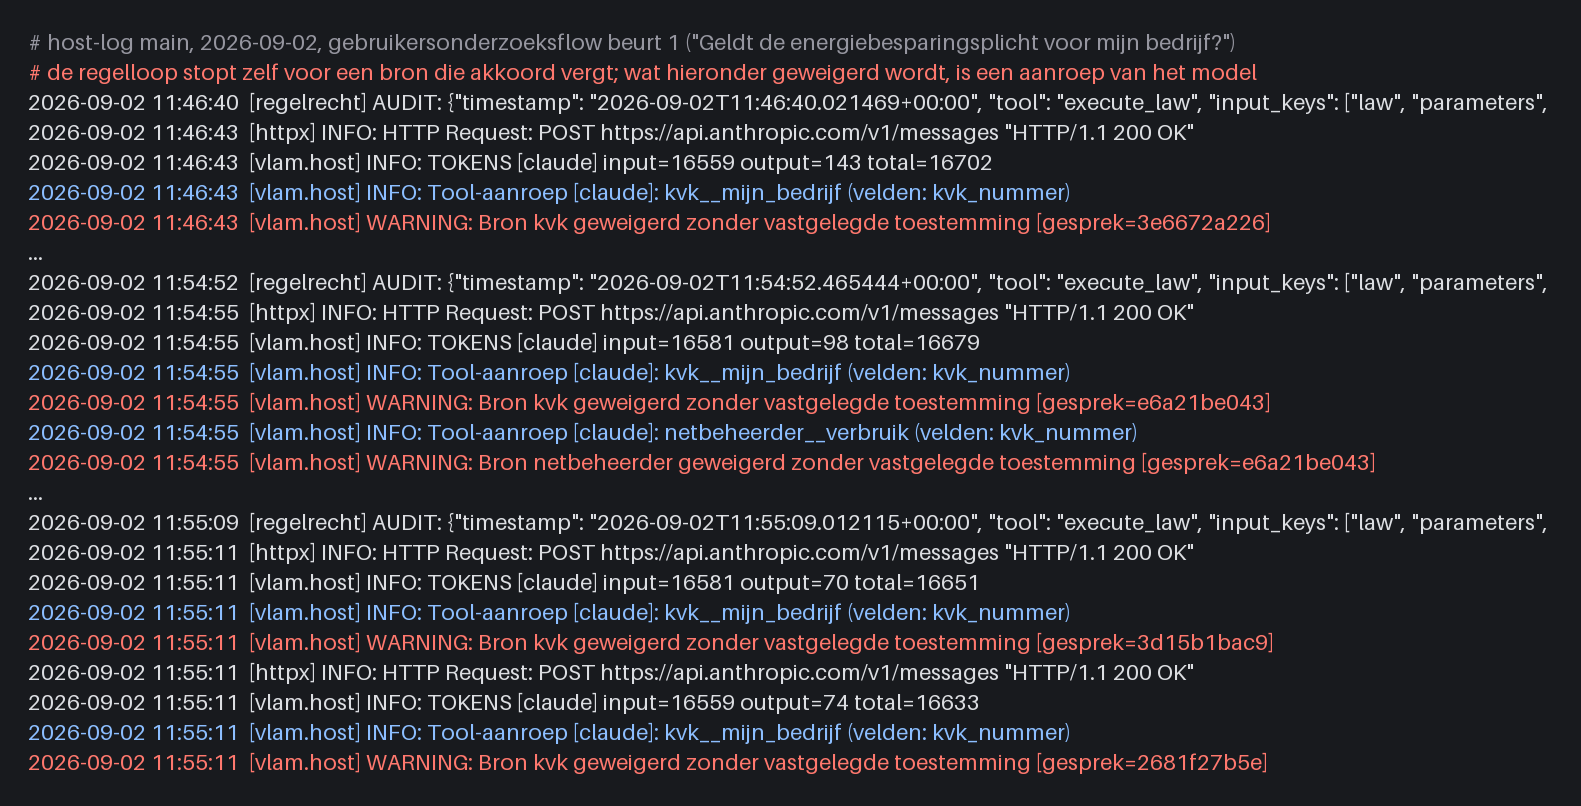
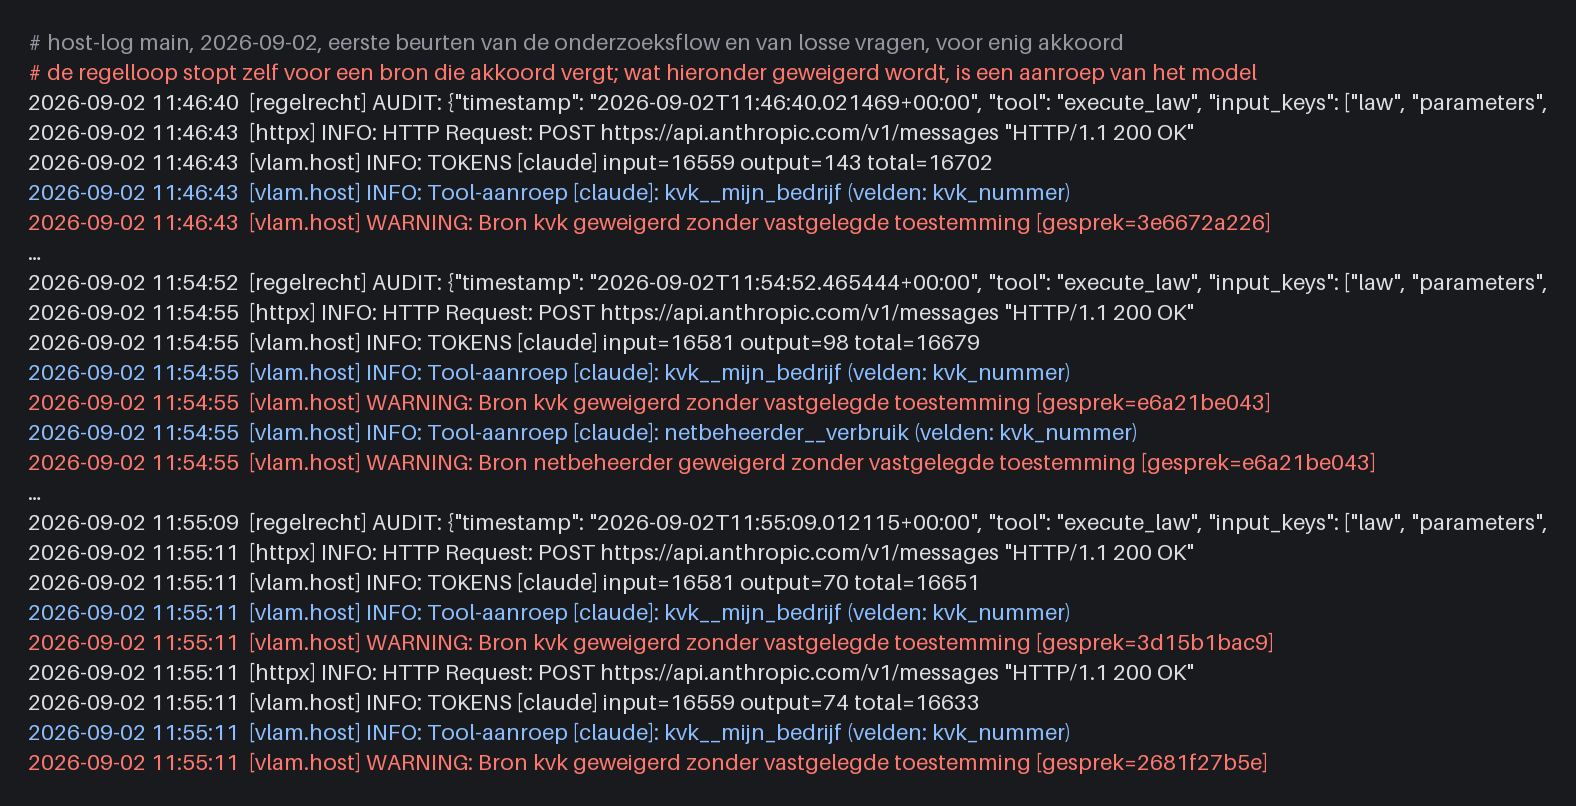
docs: PDR-014 tweede reviewronde, tellingen en verwijzingen
Acht velden ook in de tabel; het citaat over de toestemmingspoort naar
zijn echte bron; 9/9 in plaats van 12/12; alle regex-treffers op de losse
vragen nageteld (negen, allemaal bron of voorbehoud); paden en
werkdocumenten buiten git als zodanig benoemd; kopregel van de
toestemmingslog algemener; noot in de beoordeling aangevuld.

Changed region(s): [[0.0311, 0.6203, 0.9949, 0.9615], [0.0311, 0.031, 0.9949, 0.3102], [0.0311, 0.3412, 0.9949, 0.5893]]

diff --git a/docs/superpowers/plans/2026-09-02-toets-pdr-014.md b/docs/superpowers/plans/2026-09-02-toets-pdr-014.md
@@ -83,7 +83,7 @@ f22f063.
 | ID | Claim uit PDR-014 | Oordeel | Bewijs |
 |---|---|---|---|
 | C1 | `"250.000"` komt bij de engine als 250 binnen; `-65000` laat de plicht vervallen (Kloof trede 5, Onderbouwing A, figuur 3) | **bevestigd, met precisering** | engine 10/10 identiek per case: E2 `"250.000"` → input 250, `"90.000"` → 90, `requirements_met=false`, `plicht=null`; E4 `-65000` idem. De engine geeft geen uitkomst en meldt geen ontbrekend veld; de host toonde dat vóór 19 augustus als "de plicht geldt niet". De PDR-tekst is daarop aangescherpt |
-| C2 | De eerste beurt bevat al uitspraken over wat geldt, bedragen, termijnen of indiening, vóórdat een bron is geraadpleegd (Kloof; Onderbouwing A "toezeggingen") | **niet bevestigd** | 37 eerste beurten (10 flow, 27 los). Regex-treffers: 5 op main, 1 op f22f063, alle zes nagelezen: "Deadline: 1/31 december 2026" uit `rvo__zoek_regeling` (bron), "of dit voor u geldt kan ik toetsen zodra…" (voorbehoud), "Dan moet u vierjaarlijks rapporteren" (weergave van de regelingstekst, uit de bron), en twee vraagzinnen. Geen uitspraak over de situatie van de ondernemer zonder bron of voorbehoud. Flow-beurt 1 is 10/10 een toestemmingsvraag; arbeidsmarktvragen worden 12/12 geweigerd; "hoe zit dat dan met die verplichting" krijgt 3/3 de verduidelijkingsvraag met drie opties |
+| C2 | De eerste beurt bevat al uitspraken over wat geldt, bedragen, termijnen of indiening, vóórdat een bron is geraadpleegd (Kloof; Onderbouwing A "toezeggingen") | **niet bevestigd** | 37 eerste beurten (10 flow, 27 los). Regex-treffers over de 27 losse beurten: 8 antwoorden op main, 1 op f22f063, alle negen nagelezen: "Deadline: 1/31 december 2026" uit `rvo__zoek_regeling` (bron), "of dit voor u geldt kan ik toetsen zodra…" (voorbehoud), "Dan moet u vierjaarlijks rapporteren" (weergave van de regelingstekst, uit de bron), en keuze- of vraagzinnen ("Of de energiebesparingsplicht voor uw bedrijf geldt. Vraag dan…", "Kom ik in aanmerking…?"). Geen uitspraak over de situatie van de ondernemer zonder bron of voorbehoud. Flow-beurt 1 is 10/10 een toestemmingsvraag; arbeidsmarktvragen worden 12/12 geweigerd; "hoe zit dat dan met die verplichting" krijgt 3/3 de verduidelijkingsvraag met drie opties |
 | C3 | "Uw rapportage is ingediend" in de beurt die nog om bevestiging vraagt | **niet waargenomen** | 0/5 op main; f22f063 kwam niet tot indienen (beperking 1). Historisch geval van 13 augustus blijft staan als citaat |
 | C4 | Twee deadlines (2026 vs 2027) afhankelijk van de bron | **niet meer waargenomen**; wel een verwante termijnuitspraak | main 5/5 alleen "1 december 2026"; f22f063 noemt geen datum. Maar in beurt 7 zegt main 4/5: "Bij de volgende rapportageronde (1 december 2026) staat het voorwerk al klaar." De datum komt uit de engine, de koppeling aan "volgende ronde" is van het model. Opgenomen in de PDR |
 | C5 | De wet draait op zijn vroegst in de tweede beurt; 5–45 s per beurt; de ondernemer weet niet wanneer er getoetst is (Kloof; Onderbouwing A "duurt lang") | **deels; cijfers vervangen** | f22f063: wet en uitkomst in beurt 2 (5/5), na één modelbeurt van 18–40 s waarin KvK, wallet en regel in één keer draaien; mediaan 4,8 s per beurt. main: `execute_law` in beurt 1 (5/5), uitkomst in beurt 3 (5/5), mediaan 16 s per beurt, max 43 s, 95–163 s per run. Engine zelf: 54–63 ms. De PDR-zin "op zijn vroegst beurt 2" klopte voor 13 augustus; voor main is hij vervangen door de gemeten cijfers |
@@ -109,7 +109,7 @@ verandert. De PDR beschrijft de regelloop als winst in betrouwbaarheid; de
 prijs is tijd in de chat eromheen.
 
 **De regelloop is onderwerp-blind.** `execute_law` draait ook bij "Ik wil
-iemand aannemen met een afstand tot de arbeidsmarkt" (12/12 op main), een
+iemand aannemen met een afstand tot de arbeidsmarkt" (9/9 op main), een
 vraag die het model daarna weigert. De routeringstabel kent één wet en draait
 die altijd. Bij meer regelingen moet daar een toepassingsbereikstap vóór
 (trede 2 in de PDR); dit bevestigt dat gat.
@@ -190,18 +190,18 @@ geen van beide documenten en staat er nu in.
 ```bash
 # host (branch), vijf bronnen verbonden, sleutel in services/host/.env
 set -a; . services/host/.env; set +a
-LOG_LEVEL=INFO uv run uvicorn api:app --app-dir services/host --port 8000 2>&1 | tee /tmp/host.log
+LOG_LEVEL=INFO uv run uvicorn api:app --app-dir services/host --port 8000 2>&1 | tee meting/host.log
 # in een andere shell
 uv run python docs/superpowers/plans/toets-pdr-014/meet.py \
   --script services/host/scripts/onderzoeksflow.py --host http://127.0.0.1:8000 \
-  --mode claude --runs 5 --label main --out /tmp/toets/main
-python3 docs/superpowers/plans/toets-pdr-014/analyse.py /tmp/toets/main
-grep -B1 "geweigerd zonder vastgelegde toestemming" /tmp/host.log   # figuur 5
-grep -B1 "Regel al bepaald door de regelloop" /tmp/host.log          # figuur 4
+  --mode claude --runs 5 --label main --out meting/main
+python3 docs/superpowers/plans/toets-pdr-014/analyse.py meting/main
+grep -B1 "geweigerd zonder vastgelegde toestemming" meting/host.log   # figuur 5
+grep -B1 "Regel al bepaald door de regelloop" meting/host.log          # figuur 4
 # engine zonder taalmodel
 uv run python docs/decisions/assets/pdr-014/maak-log3.py
 ```
 
-Voor de vóór-meting: `git worktree add /tmp/wt f22f063`, `.env` kopiëren,
+Voor de vóór-meting: `git worktree add meting/wt f22f063`, `.env` kopiëren,
 host op poort 8001, en `meet.py` met `--script` naar het script in die
 worktree.

diff --git a/docs/decisions/PDR-014-chat-geparkeerd-tot-de-vertaling-naar-wet-klopt.md b/docs/decisions/PDR-014-chat-geparkeerd-tot-de-vertaling-naar-wet-klopt.md
@@ -255,7 +255,7 @@ vaste bouwvorm per regeling, met per onderdeel een eigenaar.
 |---|---|---|---|---|
 | **Regel** | de gemodelleerde wet in het RegelRecht-corpus, met versie en peildatum | regelhouder (departement), gevalideerd door een jurist | informatieplicht en maatregelen live; Financieel CV zeven regelingen gemodelleerd | ongewijzigd; per regeling een juristvalidatie zoals op 23 juli |
 | **Velden** | welke invoer de regel nodig heeft, met vraagtekst en type | volgt uit de regel: de engine meldt zelf wat hij mist, de `description` per parameter is de vraag (PDR-008, punt 3) | werkt live | ongewijzigd; geen handwerk per regeling |
-| **Veld → bron** | per veld: waar de waarde vandaan komt, welke soort (registratie, attestatie, opgave, wetsconstante), of toestemming nodig is, of de ondernemer mag corrigeren | portaalbeheer (MOZa), in overleg met de bronhouder | met de hand in Python, zes velden | een **bronnenregister** los van de regeling: per gegevenssoort één keer vastgelegd, hergebruikt door elke regeling die dat gegeven vraagt |
+| **Veld → bron** | per veld: waar de waarde vandaan komt, welke soort (registratie, attestatie, opgave, wetsconstante), of toestemming nodig is, of de ondernemer mag corrigeren | portaalbeheer (MOZa), in overleg met de bronhouder | met de hand in Python, acht velden | een **bronnenregister** los van de regeling: per gegevenssoort één keer vastgelegd, hergebruikt door elke regeling die dat gegeven vraagt |
 | **Bronnen** | een koppeling per bronhouder, met herkomst en toestemmingsscope | bronhouder | KvK, KOOP, RegelRecht, RVO, netbeheerder-mock | elke nieuwe bron één keer aansluiten (UWV: doelgroepregister; gemeente: loonwaarde); daarna beschikbaar voor elke regeling |
 | **Uitvoerder** | de afspraak dat beoordelaar en portaal dezelfde regelset-versie draaien | uitvoerder en MOZa | geen | per regeling een schaduwdraai-afspraak; zonder die afspraak geen groene toets vooraf |
 | **Scherm** | de concept-aanvraag: gegevens met bron en datum, uitkomst met artikel, bevestigen of tegenspreken | MOZa | formulierbouwer uit de routeringstabel en een rapport-event met herkomst bestaan al | één generieke weergave die uit de regelingsdefinitie wordt opgebouwd; geen scherm per regeling |
@@ -382,7 +382,8 @@ moment.**
   model `netbeheerder__verbruik` zelf aan, vóórdat de respondent iets had
   gezegd, en een geslaagde aanroep legde zijn eigen toestemming vast. De
   PDR-008-controle zakte van 5/5 naar 1/5. "Prompt-instructies bleken niet
-  genoeg; dit is code, geen instructie" (meting van 13 augustus,
+  genoeg; dit is code, geen instructie" (naar de toelichting bij
+  `_bron_aanroep_gated` in `services/host/vlam_host.py`; de meting staat in
   `docs/superpowers/plans/meting-regelloop-2026-08-13.md`). Antwoord:
   `_bron_aanroep_gated`, één poort in de host waar model én regelloop
   doorheen moeten. Nagemeten op 2 september: in de flow probeert het model in
@@ -443,7 +444,7 @@ moment.**
   vraag erom vroeg (tot het ontwerp van 13 augustus).
 - Bij een onduidelijke vraag ("hoe zit dat dan met die verplichting") stelt de
   assistent eerst een verduidelijkingsvraag met drie opties
-  (`prompts/examples/onduidelijke_vraag.md`). Dat is goed gedrag, en het is
+  (`services/host/prompts/examples/onduidelijke_vraag.md`). Dat is goed gedrag, en het is
   nog een beurt voordat er een wet in beeld is.
 - Het zoeken naar de RVO-regeling kostte in elke live run twee extra rondes en
   een bronfout vlak voor het indienen (`84b95ec`). De maatregelenbeurt
@@ -492,8 +493,8 @@ geweigerde poging als een raadpleging. Dit is overhead die een routeringstabel
 niet heeft: die is een tabel, en klopt of klopt niet.
 
 **Wat de vergelijking met het RVO-stappenplan toevoegde** (19 en 20 augustus;
-het document is niet gecommit en verloren gegaan, de kernpunten staan in de
-overdracht van 20 augustus). Het stappenplan van RVO dekt drie plichten, per
+het document is niet gecommit en verloren gegaan; de kernpunten staan in de
+overdrachtsnotitie van 20 augustus, een werkdocument buiten deze repository). Het stappenplan van RVO dekt drie plichten, per
 locatie, en kent een toepassingsbereiktoets op sector en activiteit. De
 assistent dekt er één, per bedrijf, en toetst het toepassingsbereik niet:
 onterecht bevestigde plichten zijn dus mogelijk. Bedrijf is niet gelijk aan

diff --git a/docs/decisions/assets/pdr-014/SHOTLIST.md b/docs/decisions/assets/pdr-014/SHOTLIST.md
@@ -11,7 +11,7 @@ Geen browser in de ontwikkelomgeving van Claude. Wat zonder taalmodel
 reproduceerbaar was, staat er al (fig3). De rest vraagt een draaiende host met
 een sleutel, of de ZAD-logs van de onderzoeksomgeving.
 
-Formaat: PNG, breedte ≥ 1600 px. Geen sleutels, tokens of URL's van de
+Formaat: PNG, breedte ≥ 1400 px (de gerenderde logs zijn 1440–2030 px). Geen sleutels, tokens of URL's van de
 onderzoeksomgeving in beeld; alleen de fictieve persona's.
 
 | # | Bestand | Status | Waar in de PDR | Wat het laat zien |
@@ -45,8 +45,8 @@ Beide komen uit de host-log van een gewone meting op main (zie
 starten met `LOG_LEVEL=INFO`, de onderzoeksflow één keer draaien, en:
 
 ```bash
-grep -B1 "geweigerd zonder vastgelegde toestemming" /tmp/host.log   # fig5
-grep -B1 "Regel al bepaald door de regelloop" /tmp/host.log          # fig4
+grep -B1 "geweigerd zonder vastgelegde toestemming" meting/host.log   # fig5
+grep -B1 "Regel al bepaald door de regelloop" meting/host.log          # fig4
 ```
 
 Liever een echte terminal-screenshot dan de gerenderde PNG: `cat` de txt.
@@ -77,8 +77,9 @@ PDR in als het bestand bestaat (de verwijzing is er nu bewust uit).
 ## Bewust geen beeld
 
 - **"Bloemenlaan 12" in het rapport.** Eén run op 13 augustus, ruwe log niet
-  bewaard, niet op commando reproduceerbaar. Blijft een citaat uit
-  `NEXT_STEPS.md`.
+  bewaard, niet op commando reproduceerbaar. Blijft een citaat uit de
+  werklijst van het team (niet in git); de docstring in
+  `docs/superpowers/plans/2026-08-13-onderzoeksflow-robuust.md` noemt het geval.
 - **Meting 5/5 → 1/5.** Alleen als tabel zichtbaar
   (`docs/superpowers/plans/meting-regelloop-2026-08-13.md`); de ruwe
   `meting-def.log` staat niet in git.

diff --git a/docs/superpowers/plans/toets-pdr-014/beoordeling.md b/docs/superpowers/plans/toets-pdr-014/beoordeling.md
@@ -6,7 +6,8 @@
 > bestanden `runs-main.json` en `runs-f22f063.json` heten nu
 > `main/main-run*.json` en `f22f063/f22f063-run*.json` en bevatten de
 > volledige events. De cijfers 28 (eerste beurten) en 8 (weigeringen) zijn
-> in rapport en PDR vervangen door 37 en 7.
+> in rapport en PDR vervangen door 37 en 7. Onder C.4 klopt "f22f063 run 2"
+> niet: alleen main run 2 noemt loonkostensubsidie en banenafspraak.
 
 Datum 2026-09-02. Gelezen: PDR-014, het meetrapport van 2 september, de
 bestanden onder `toets-pdr-014/` (runs-main.json, runs-f22f063.json,
